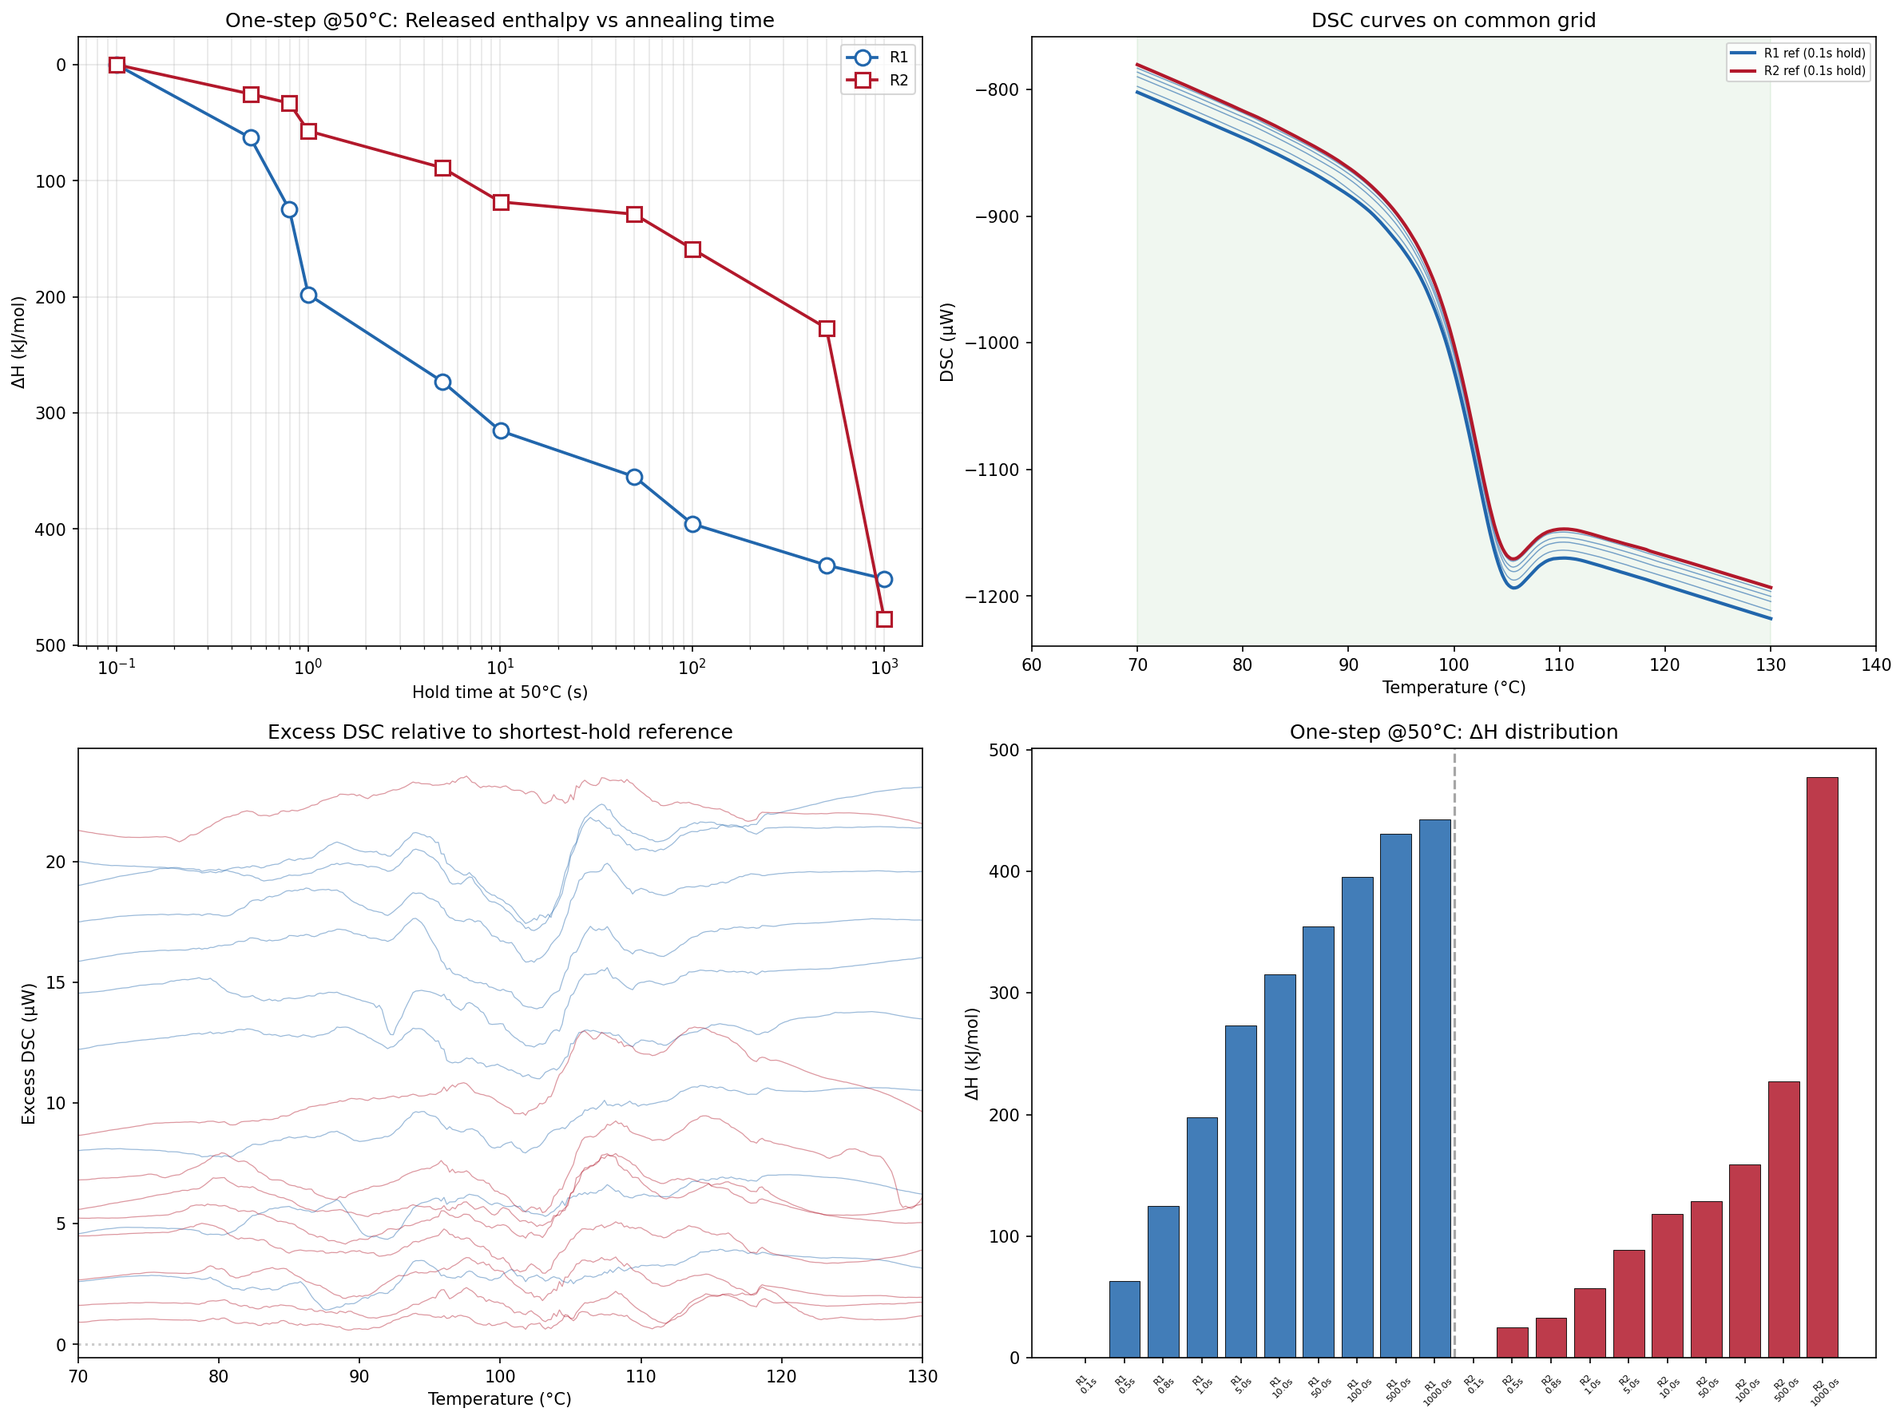
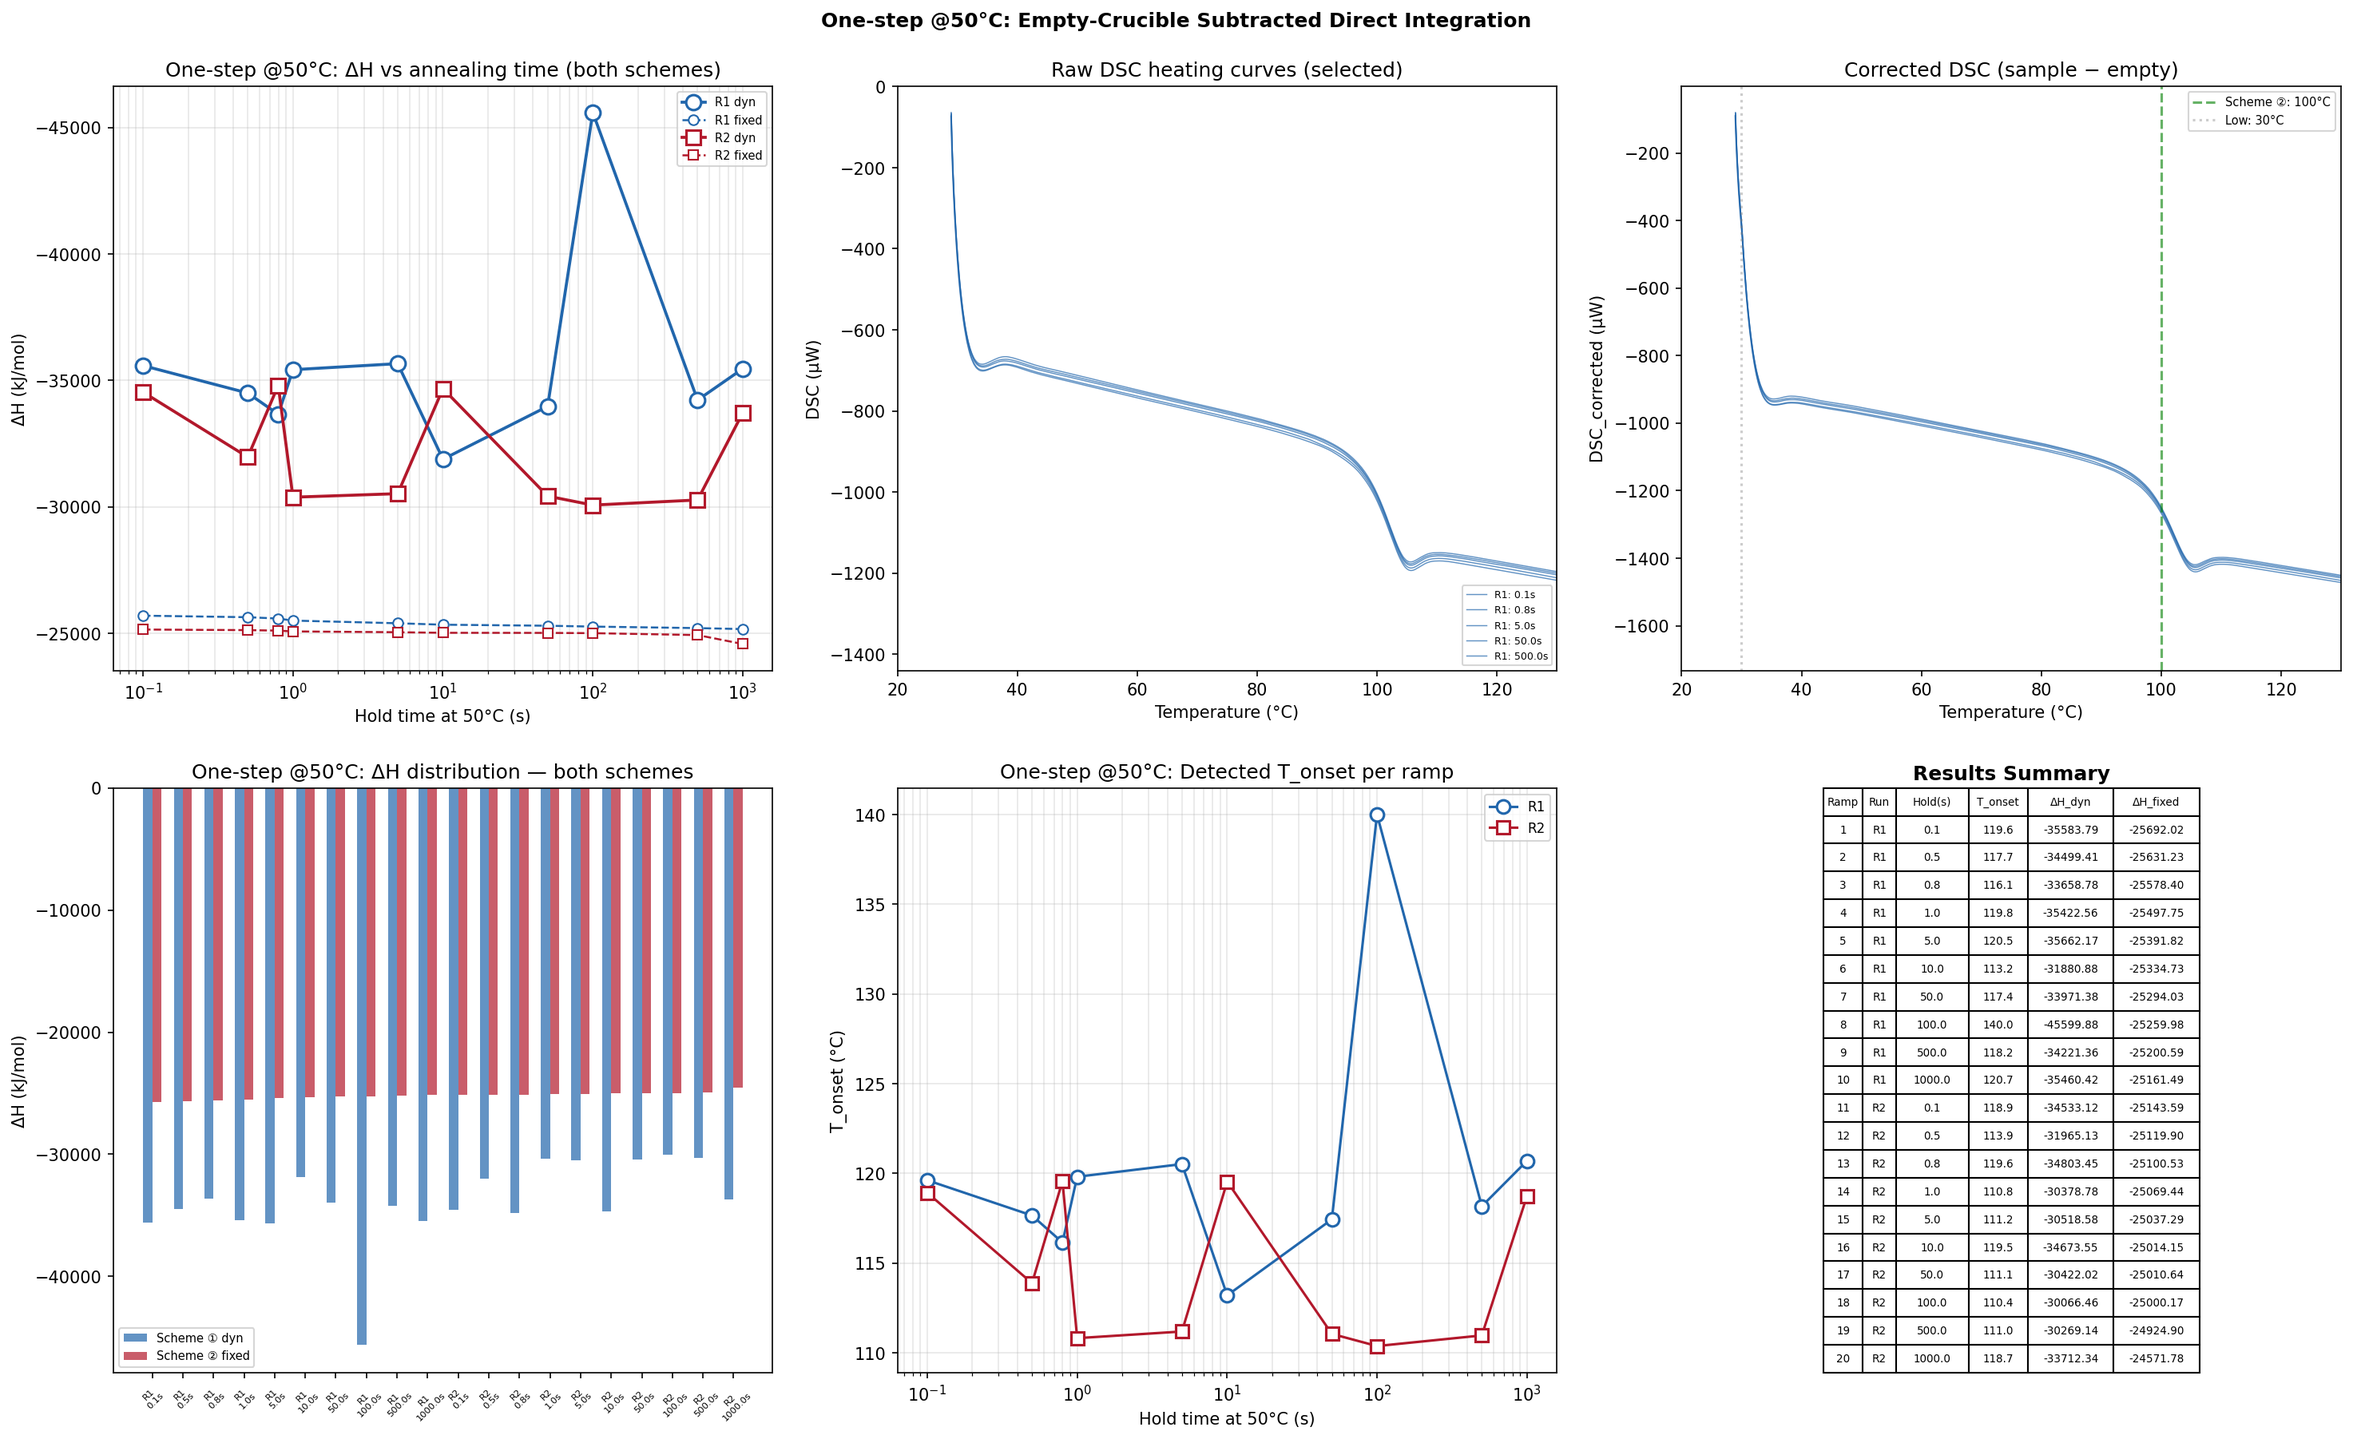
refactor: one-step processing to empty-crucible subtraction with dual-scheme integration
Replace the per-run shortest-hold reference method with empty-crucible
subtraction followed by direct integration. Two schemes are computed:
  Scheme 1: dynamic integration from 30C to per-curve T_onset
  Scheme 2: fixed integration from 30C to 100C

Outputs a 6-panel figure and CSV with columns:
ramp, run, hold_s, hold_min, T_onset, delta_H_dyn_kJmol, delta_H_fixed_kJmol

Also fixed XLSX file paths in __main__ to point to data/raw/.

diff --git a/src/process_onestep.py b/src/process_onestep.py
@@ -17,6 +17,7 @@ import matplotlib.pyplot as plt
 
 from process_shared import (
     load_dsc_experiment, detect_heating_ramps, compute_enthalpy,
+    load_empty_crucible, subtract_empty_crucible, detect_t_onset,
     HEATING_T_START, HEATING_T_END,
 )
 
@@ -24,10 +25,11 @@ ROOT_DIR = os.path.dirname(os.path.dirname(os.path.abspath(__file__)))
 DATA_DIR = os.path.join(ROOT_DIR, 'data')
 RESULTS_DIR = os.path.join(ROOT_DIR, 'results', 'dsc')
 
-# Integration range for Tg recovery peak
-T_INT_LOW = 70    # °C — well before Tg onset
-T_INT_HIGH = 130  # °C — well after recovery peak
-T_GRID_STEP = 0.2  # °C — fine grid for interpolation
+T_INT_LOW = 30       # lower bound for both schemes
+T_INT_HIGH_FIXED = 100  # Scheme ② fixed upper bound
+T_GRID_STEP = 0.2
+
+EMPTY_CRUCIBLE_CSV = os.path.join(DATA_DIR, 'csv', 'baseline-01.csv')
 
 
 def map_program_to_ramps(program, ramps):
@@ -80,16 +82,21 @@ def map_program_to_ramps(program, ramps):
 
 
 def process_one_step(data_file, sheet, T_anneal, label, out_name):
-    """Process one-step annealing DSC data with direct difference method.
+    """Process one-step annealing with empty-crucible subtraction.
 
-    The shortest-hold ramp in each run serves as the reference (zero-aging, or
-    the closest approximation available). All other ramps in the same run are
-    compared against it.
+    Two schemes:
+      ① Dynamic: integrate 30°C → T_onset (per-curve supercooled liquid onset)
+      ② Fixed:   integrate 30°C → 100°C
     """
     print(f"\n{'='*70}")
     print(f"  One-step annealing ({label}) — T_anneal = {T_anneal}°C")
-    print(f"  Method: direct difference vs shortest-hold reference")
+    print(f"  Method: empty-crucible subtraction + direct integration")
     print(f"{'='*70}")
+
+    # Load empty crucible
+    T_empty, DSC_empty = load_empty_crucible(EMPTY_CRUCIBLE_CSV)
+    print(f"  Loaded empty crucible: {len(T_empty)} pts, "
+          f"{T_empty.min():.1f}–{T_empty.max():.1f}°C")
 
     # Load experiment and detect ramps
     exp_data, program = load_dsc_experiment(data_file, sheet=sheet)
@@ -102,143 +109,173 @@ def process_one_step(data_file, sheet, T_anneal, label, out_name):
     conditions = map_program_to_ramps(program, ramps)
     print(f"  Mapped {len(conditions)} annealed ramps per run")
 
-    # Build common temperature grid for inter-ramp comparison
-    T_grid = np.arange(T_INT_LOW, T_INT_HIGH + T_GRID_STEP, T_GRID_STEP)
+    T_grid = np.arange(T_INT_LOW, T_INT_HIGH_FIXED + 20 + T_GRID_STEP, T_GRID_STEP)
 
-    # Interpolate all ramp DSC to common grid
-    dsc_interp = {}
-    for cond in conditions:
-        s, e = cond['start_idx'], cond['end_idx']
-        T_seg = T_exp[s:e+1]
-        DSC_seg = DSC_exp[s:e+1]
-        f = interp1d(T_seg, DSC_seg, kind='linear',
-                     bounds_error=False, fill_value='extrapolate')
-        dsc_interp[cond['ramp_idx']] = f(T_grid)
-
-    # Per-run reference: shortest hold ramp
+    # Process each ramp
     results = []
-    for run_label in ['R1', 'R2']:
-        run_conds = [c for c in conditions if c['run'] == run_label]
-        if len(run_conds) < 2:
-            continue
-
-        # Reference = shortest hold
-        ref_cond = min(run_conds, key=lambda c: c['hold_s'])
-        ref_dsc = dsc_interp[ref_cond['ramp_idx']]
-
-        print(f"\n  [{run_label}] Reference: ramp {ref_cond['ramp_idx']}, "
-              f"hold = {ref_cond['hold_s']:.1f} s")
-
-        for cond in run_conds:
-            excess = dsc_interp[cond['ramp_idx']] - ref_dsc
-            # Integrate positive excess (recovery peak is endothermic → positive in DSC)
-            excess_area = trapezoid(excess, T_grid)
-            delta_H = compute_enthalpy(excess_area)
-            results.append({
-                'ramp': cond['ramp_idx'],
-                'run': cond['run'],
-                'hold_s': cond['hold_s'],
-                'hold_min': cond['hold_min'],
-                'excess_area_uWC': excess_area,
-                'delta_H_kJmol': delta_H,
-                'is_ref': (cond['ramp_idx'] == ref_cond['ramp_idx']),
-            })
-            marker = ' *REF*' if cond['ramp_idx'] == ref_cond['ramp_idx'] else ''
-            print(f"    Ramp {cond['ramp_idx']:2d}: hold={cond['hold_s']:8.1f}s → "
-                  f"excess={excess_area:.1f} uW·°C, ΔH={delta_H:+.2f} kJ/mol{marker}")
-
-    results_df = pd.DataFrame(results)
-
-    # ── Generate plots ────────────────────────────────────────────────────
-    fig, axes = plt.subplots(2, 2, figsize=(16, 12))
     run_colors = {'R1': '#2166AC', 'R2': '#B2182B'}
     run_markers = {'R1': 'o', 'R2': 's'}
 
-    # Panel 1: ΔH vs hold time (log scale, inverted y for aging convention)
+    for cond in conditions:
+        s, e = cond['start_idx'], cond['end_idx']
+        T_ramp = T_exp[s:e+1]
+        DSC_ramp = DSC_exp[s:e+1]
+
+        # Subtract empty crucible
+        DSC_corr = subtract_empty_crucible(T_ramp, DSC_ramp, T_empty, DSC_empty)
+
+        # Scheme ①: dynamic T_onset
+        T_onset = detect_t_onset(T_ramp, DSC_corr)
+        mask1 = (T_ramp >= T_INT_LOW) & (T_ramp <= T_onset)
+        area1 = trapezoid(DSC_corr[mask1], T_ramp[mask1])
+        dH1 = compute_enthalpy(area1)
+
+        # Scheme ②: fixed 30–100°C
+        mask2 = (T_ramp >= T_INT_LOW) & (T_ramp <= T_INT_HIGH_FIXED)
+        area2 = trapezoid(DSC_corr[mask2], T_ramp[mask2])
+        dH2 = compute_enthalpy(area2)
+
+        results.append({
+            'ramp': cond['ramp_idx'],
+            'run': cond['run'],
+            'hold_s': cond['hold_s'],
+            'hold_min': cond['hold_min'],
+            'T_onset': T_onset,
+            'delta_H_dyn_kJmol': dH1,
+            'delta_H_fixed_kJmol': dH2,
+        })
+        print(f"    Ramp {cond['ramp_idx']:2d}: hold={cond['hold_s']:8.1f}s, "
+              f"T_onset={T_onset:.1f}°C → "
+              f"ΔH_dyn={dH1:+.2f}, ΔH_fixed={dH2:+.2f} kJ/mol")
+
+    results_df = pd.DataFrame(results)
+
+    # ── Generate plots ──────────────────────────────────────────────────────
+    fig, axes = plt.subplots(2, 3, figsize=(20, 12))
+
+    # Panel 1: ΔH vs hold time — both schemes
     ax1 = axes[0, 0]
     for rl in ['R1', 'R2']:
         rd = results_df[results_df['run'] == rl].sort_values('hold_s')
-        ax1.plot(rd['hold_s'], rd['delta_H_kJmol'],
+        ax1.plot(rd['hold_s'], rd['delta_H_dyn_kJmol'],
                  marker=run_markers[rl], color=run_colors[rl],
                  linewidth=1.8, markersize=9, markerfacecolor='white',
-                 markeredgewidth=1.5, label=rl)
+                 markeredgewidth=1.5, label=f'{rl} dyn', linestyle='-')
+        ax1.plot(rd['hold_s'], rd['delta_H_fixed_kJmol'],
+                 marker=run_markers[rl], color=run_colors[rl],
+                 linewidth=1.2, markersize=6, markerfacecolor='white',
+                 markeredgewidth=1.0, label=f'{rl} fixed', linestyle='--')
     ax1.set_xlabel(f'Hold time at {T_anneal}°C (s)')
     ax1.set_ylabel('ΔH (kJ/mol)')
-    ax1.set_title(f'{label}: Released enthalpy vs annealing time')
+    ax1.set_title(f'{label}: ΔH vs annealing time (both schemes)')
     ax1.set_xscale('log')
     ax1.invert_yaxis()
-    ax1.legend(fontsize=9)
+    ax1.legend(fontsize=7)
     ax1.grid(True, alpha=0.3, which='both')
 
-    # Panel 2: DSC curves on common grid with ref highlighted
+    # Panel 2: Raw DSC curves (selected)
     ax2 = axes[0, 1]
     sample_idx = [0, 2, 4, 6, 8]
     for idx in sample_idx:
         if idx >= len(conditions):
             continue
         cond = conditions[idx]
-        ridx = cond['ramp_idx']
-        excess_vals = dsc_interp[ridx]
-        ax2.plot(T_grid, excess_vals, alpha=0.6, linewidth=0.7,
-                 color=run_colors[cond['run']])
-    # Highlight references
-    for rl in ['R1', 'R2']:
-        rcs = [c for c in conditions if c['run'] == rl]
-        if rcs:
-            ref = min(rcs, key=lambda c: c['hold_s'])
-            ax2.plot(T_grid, dsc_interp[ref['ramp_idx']],
-                     '-', linewidth=2.0, color=run_colors[rl],
-                     label=f'{rl} ref ({ref["hold_s"]:.1f}s hold)')
-    ax2.axvspan(T_INT_LOW, T_INT_HIGH, alpha=0.06, color='green')
+        s, e = cond['start_idx'], cond['end_idx']
+        ax2.plot(T_exp[s:e+1], DSC_exp[s:e+1],
+                 alpha=0.7, linewidth=0.7,
+                 color=run_colors[cond['run']],
+                 label=f"{cond['run']}: {cond['hold_s']:.1f}s")
     ax2.set_xlabel('Temperature (°C)')
     ax2.set_ylabel('DSC (µW)')
-    ax2.set_title('DSC curves on common grid')
-    ax2.legend(fontsize=7)
-    ax2.set_xlim(T_INT_LOW - 10, T_INT_HIGH + 10)
+    ax2.set_title('Raw DSC heating curves (selected)')
+    ax2.legend(fontsize=6, loc='lower right')
+    ax2.set_xlim(T_INT_LOW - 10, T_INT_HIGH_FIXED + 30)
 
-    # Panel 3: Excess DSC (relative to ref)
-    ax3 = axes[1, 0]
-    ref_indices = {}
-    for rl in ['R1', 'R2']:
-        rcs = [c for c in conditions if c['run'] == rl]
-        ref_indices[rl] = min(rcs, key=lambda c: c['hold_s'])['ramp_idx']
-    for cond in conditions:
-        ridx = cond['ramp_idx']
-        ref_idx = ref_indices[cond['run']]
-        if ridx == ref_idx:
+    # Panel 3: Corrected DSC with integration ranges
+    ax3 = axes[0, 2]
+    for idx in sample_idx:
+        if idx >= len(conditions):
             continue
-        excess = dsc_interp[ridx] - dsc_interp[ref_idx]
-        ax3.plot(T_grid, excess, alpha=0.45, linewidth=0.6,
+        cond = conditions[idx]
+        s, e = cond['start_idx'], cond['end_idx']
+        T_ramp = T_exp[s:e+1]
+        DSC_ramp = DSC_exp[s:e+1]
+        DSC_corr = subtract_empty_crucible(T_ramp, DSC_ramp, T_empty, DSC_empty)
+        ax3.plot(T_ramp, DSC_corr, alpha=0.7, linewidth=0.7,
                  color=run_colors[cond['run']])
-    ax3.axhline(0, color='gray', linestyle=':', alpha=0.4)
+    ax3.axvline(T_INT_HIGH_FIXED, color='green', linestyle='--', alpha=0.6,
+                label=f'Scheme ②: {T_INT_HIGH_FIXED}°C')
+    ax3.axvline(T_INT_LOW, color='gray', linestyle=':', alpha=0.4,
+                label=f'Low: {T_INT_LOW}°C')
     ax3.set_xlabel('Temperature (°C)')
-    ax3.set_ylabel('Excess DSC (µW)')
-    ax3.set_title('Excess DSC relative to shortest-hold reference')
-    ax3.set_xlim(T_INT_LOW, T_INT_HIGH)
+    ax3.set_ylabel('DSC_corrected (µW)')
+    ax3.set_title('Corrected DSC (sample − empty)')
+    ax3.legend(fontsize=7)
+    ax3.set_xlim(T_INT_LOW - 10, T_INT_HIGH_FIXED + 30)
 
-    # Panel 4: ΔH bar chart
-    ax4 = axes[1, 1]
+    # Panel 4: ΔH bar comparison
+    ax4 = axes[1, 0]
     n = len(results_df)
     x_pos = np.arange(n)
-    bar_colors = [run_colors[r['run']] for _, r in results_df.iterrows()]
-    ax4.bar(x_pos, results_df['delta_H_kJmol'], color=bar_colors,
-            edgecolor='black', linewidth=0.5, alpha=0.85)
+    ax4.bar(x_pos - 0.15, results_df['delta_H_dyn_kJmol'], 0.3,
+            color='#2166AC', alpha=0.7, label='Scheme ① dyn')
+    ax4.bar(x_pos + 0.15, results_df['delta_H_fixed_kJmol'], 0.3,
+            color='#B2182B', alpha=0.7, label='Scheme ② fixed')
     ax4.set_xticks(x_pos)
     ax4.set_xticklabels([f"{r['run']}\n{r['hold_s']:.1f}s"
                          for _, r in results_df.iterrows()],
                         fontsize=5.5, rotation=45)
     ax4.set_ylabel('ΔH (kJ/mol)')
-    ax4.set_title(f'{label}: ΔH distribution')
-    mid = len(results_df[results_df['run'] == 'R1'])
-    ax4.axvline(mid - 0.5, color='gray', linestyle='--', alpha=0.7)
+    ax4.set_title(f'{label}: ΔH distribution — both schemes')
+    ax4.legend(fontsize=7)
 
-    plt.tight_layout()
+    # Panel 5: T_onset distribution
+    ax5 = axes[1, 1]
+    for rl in ['R1', 'R2']:
+        rd = results_df[results_df['run'] == rl]
+        ax5.plot(rd['hold_s'], rd['T_onset'],
+                 marker=run_markers[rl], color=run_colors[rl],
+                 linewidth=1.5, markersize=8, markerfacecolor='white',
+                 markeredgewidth=1.5, label=rl)
+    ax5.set_xlabel(f'Hold time at {T_anneal}°C (s)')
+    ax5.set_ylabel('T_onset (°C)')
+    ax5.set_title(f'{label}: Detected T_onset per ramp')
+    ax5.set_xscale('log')
+    ax5.legend(fontsize=8)
+    ax5.grid(True, alpha=0.3, which='both')
+
+    # Panel 6: Results table
+    ax6 = axes[1, 2]
+    ax6.axis('off')
+    table_data = []
+    for _, r in results_df.iterrows():
+        table_data.append([
+            f"{r['ramp']:.0f}", r['run'],
+            f"{r['hold_s']:.1f}",
+            f"{r['T_onset']:.1f}",
+            f"{r['delta_H_dyn_kJmol']:.2f}",
+            f"{r['delta_H_fixed_kJmol']:.2f}",
+        ])
+    col_labels = ['Ramp', 'Run', 'Hold(s)', 'T_onset', 'ΔH_dyn', 'ΔH_fixed']
+    table = ax6.table(cellText=table_data, colLabels=col_labels,
+                      cellLoc='center', loc='center',
+                      colWidths=[0.06, 0.05, 0.11, 0.09, 0.13, 0.13])
+    table.auto_set_font_size(False)
+    table.set_fontsize(6.5)
+    table.scale(1.0, 1.2)
+    ax6.set_title('Results Summary', fontweight='bold', pad=5)
+
+    plt.tight_layout(pad=2)
+    fig.suptitle(f'{label}: Empty-Crucible Subtracted Direct Integration',
+                 fontsize=12, fontweight='bold', y=1.01)
     png_path = os.path.join(RESULTS_DIR, f'{out_name}_results.png')
     plt.savefig(png_path, dpi=150, bbox_inches='tight')
+    plt.close()
     print(f"\n  Saved {png_path}")
 
     csv_path = os.path.join(RESULTS_DIR, f'{out_name}_results.csv')
-    save_cols = ['ramp', 'run', 'hold_s', 'hold_min', 'delta_H_kJmol']
+    save_cols = ['ramp', 'run', 'hold_s', 'hold_min', 'T_onset',
+                 'delta_H_dyn_kJmol', 'delta_H_fixed_kJmol']
     results_df[save_cols].to_csv(csv_path, index=False, float_format='%.6f')
     print(f"  Saved {csv_path}")
 
@@ -248,8 +285,10 @@ def process_one_step(data_file, sheet, T_anneal, label, out_name):
         rd = results_df[results_df['run'] == rl]
         if len(rd) == 0:
             continue
-        print(f"  {rl}: ΔH = {rd['delta_H_kJmol'].min():.2f} – "
-              f"{rd['delta_H_kJmol'].max():.2f} kJ/mol, "
+        print(f"  {rl}: ΔH_dyn = {rd['delta_H_dyn_kJmol'].min():.2f} – "
+              f"{rd['delta_H_dyn_kJmol'].max():.2f} kJ/mol, "
+              f"ΔH_fixed = {rd['delta_H_fixed_kJmol'].min():.2f} – "
+              f"{rd['delta_H_fixed_kJmol'].max():.2f} kJ/mol, "
               f"n={len(rd)} ramps")
 
     return results_df
@@ -258,14 +297,14 @@ def process_one_step(data_file, sheet, T_anneal, label, out_name):
 # ── Main ──────────────────────────────────────────────────────────────────
 if __name__ == '__main__':
     r1 = process_one_step(
-        os.path.join(DATA_DIR, 'PS-onestep-01.xlsx'),
+        os.path.join(DATA_DIR, 'raw', 'onestep-01.xlsx'),
         sheet='PS-onestep-01',
         T_anneal=50,
         label='One-step @50°C',
         out_name='onestep_50C',
     )
     r2 = process_one_step(
-        os.path.join(DATA_DIR, 'PS-onestep-02.xlsx'),
+        os.path.join(DATA_DIR, 'raw', 'onestep-02.xlsx'),
         sheet='PS-onestep-02',
         T_anneal=70,
         label='One-step @70°C',
